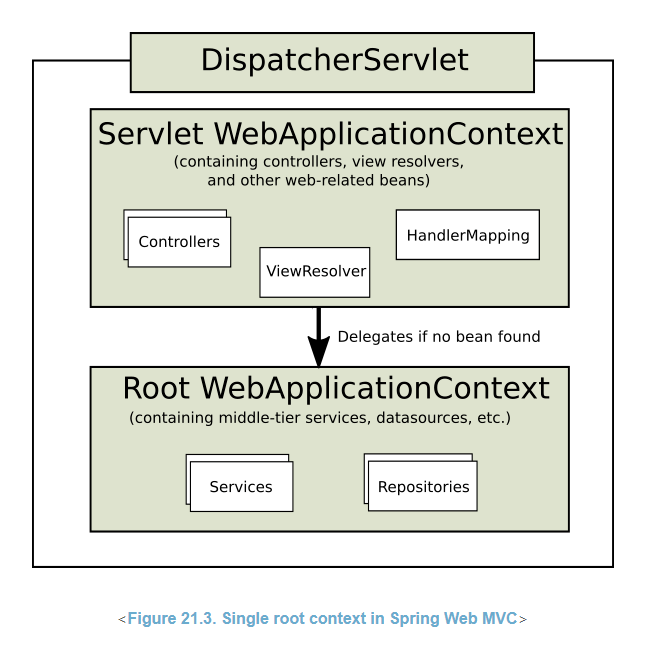
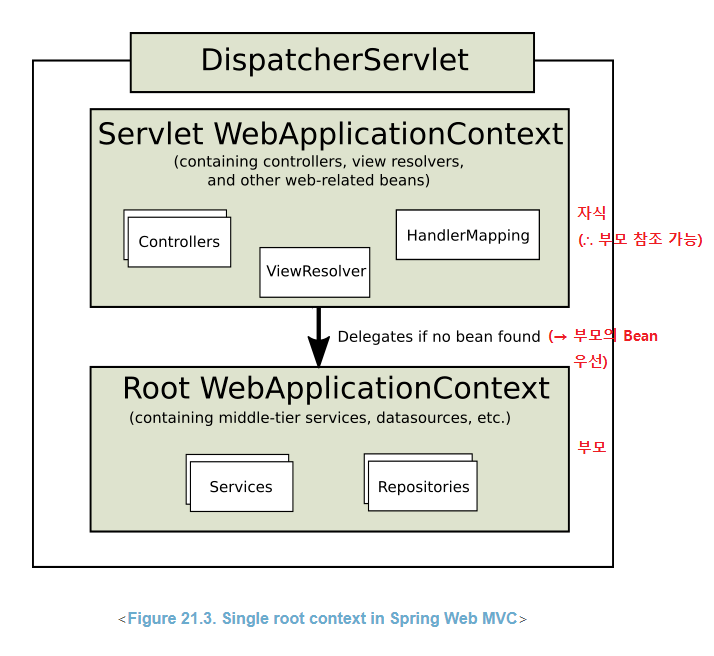
.

diff --git a/book/java_web_by_springboot_sjyoon/ch_3.md b/book/java_web_by_springboot_sjyoon/ch_3.md
@@ -20,7 +20,7 @@
 3. [스프링 MVC](#스프링-MVC)
 	* [스프링 MVC 구조](#스프링-MVC-구조)
 	* [스프링 MVC 설정](#스프링-MVC-설정)
-	* DispatcherServlet 설정
+	* [DispatcherServlet 설정](#DispatcherServlet-설정)
 	* 컨트롤러와 뷰
 	* 인터셉터
 4. [참고](#참고)
@@ -288,22 +288,24 @@ public class JavaConfigSpringApp {
 <img src="./img/ch_3_1.jpg" width="700" height="300"></br>
 
 * DispatcherServlet이 요청을 받으면 그 요청을 처리할 수 있는 Handler의 이름을 HandlerMapping에게 물어봄
-	1. HandlerMapping은 요청 URL을 보고 Handler를 판단
+	1. HandlerMapping은 요청 URL을 보고 Handler(Controller)를 판단
 	2. 또한 Handler 실행 전에 전처리, 후처리로 실행해야 할 인터셉터 목록 결정
 	3. DispatcherServlet은 제어권을 Handler로 전달
 * Handler는 두 가지 역할을 함
 	1. 응답에 필요한 서비스를 호출(invoke)
 	2. 응답에서 렌더링해야 하는 View Name을 판단해서 DispatcherServlet에 전송
-* DispatcherServlet은 논리적인(?) View Name을 ViewResolver에 전달해서 응답에 필요한 View 생성
+* DispatcherServlet은 **논리적인** View Name을 ViewResolver에 전달해서 응답에 필요한 View 생성
+	* Logical view name + prefix/suffix → Physical view object
 * 해당 View에 Model과 컨트롤러를 전달해서(?) 응답 생성 후 클라이언트에 반환
 
 - - -
-[스프링 컨테이너의 동작 원리](https://asfirstalways.tistory.com/334)를 조금 더 자세히 설명하자면 아래와 같다.
+스프링 컨테이너는 Controller의 라이프사이클을 관리한다. 이에 관해를 조금 더 자세히 설명하자면 [아래](https://asfirstalways.tistory.com/334)와 같다.
 
 <img src="./img/ch_2_8.png" width="600" height="250"></br>
 
 * 클라이언트 요청 전
 	1. 웹 어플리케이션 실행 시 WAS(ex. Tomcat)가 `web.xml`을 로드(→ 배포)
+		* `web.xml`의 세 가지 설정: ContextLoaderListener, DispatcherServlet, encodingFilter
 	2. `web.xml`에 등록되어 있는 ContextLoaderListener 생성
 		* ContextLoaderListener 클래스는 ServletContextListener 인터페이스를 구현
 	3. 생성된 ContextLoaderListener는 `root-context.xml`을 로드
@@ -321,11 +323,75 @@ public class JavaConfigSpringApp {
 	3. **두 번째**(?!) Spring Container가 구동되며 요청에 맞는 PageController들이 동작
 		* 이 때 첫 번째 Spring Container가 구동되며 생성된 DAO, VO, ServiceImpl 클래스들과 협력
 
-이를 좀 더 자세히 이해하기 위해 Context 개념을 살펴보자.
+이를 좀 더 자세히 이해하기 위해 Context 개념을 살펴보자. 스프링은 계층 구조를 가지는 multi-context 환경을 구성할 수 있도록 해주며 크게 두 가지로 구분할 수 있다.
 
-<img src="./img/ch_2_9.png" width="350" height="350"></br>
+* ContextLoaderListener(`root-context`)
+	* 설정
+		1. 웹 애플리케이션의 실제 비즈니스 로직을 위한 Service layer 구성 Bean 설정
+		2. 해당 Service layer와 협력하는 Repository layer 구성 Bean 설정
+	* 참조(의존성)
+		1. 이 context에 등록되는 모든 Bean은 모든 context에서 사용 가능
+			* ∴ 웹 애플리케이션 전체에 적용해야 하는 기능 위치(ex. DB 연결, 로깅 등)
+		2. `servlet-context`에 등록된 Bean 이용 불가능
+			* `servlet-context`와 동일한 Bean이 있을 경우 Servlet Context Bean 우선
+	* 코드  
+		```xml
+		<!-- web.xml -->
+		<context-param>
+			<param-name>contextConfigLocation</param-name>
+			<param-value>classpath*:spring/context-*.xml</param-value>
+		</context-param>
+		```
+* DispatcherServlet(`servlet-context`; 웹 애플리케이션이 클라이언트의 요청을 받기 위한 진입점)
+	* 설정
+		1. 요청에 대한 처리를 해줄 Controller의 매핑 설정(HandlerMapping)
+		2. 요청 처리 후 View 처리를 어떻게 할 것인가에 대한 설정(ViewResolver)
+	* 참조
+		1. 이 context에 등록되는 Bean들은 `servlet-context`에서만 사용 가능
+			* 타 서블릿과 공유하기 위한 Bean들은 루트 웹 애플리케이션 컨텍스트에 등록 후 사용
+		2. DispatcherServlet은 자신만의 컨텍스트를 생성, 초기화 및 `root-context`를 찾아서 자신의 부모 컨텍스트로 이용
+	* 코드  
+		```xml
+		<!-- web.xml -->
+		<servlet>
+			<servlet-name>dispatcher</servlet-name>
+			<servlet-class>org.springframework.web.servlet.DispatcherServlet</servlet-class>
+			<init-param>
+				<param-name>listings</param-name>
+				<param-value>false</param-value>
+			</init-param>
+			<load-on-startup>1</load-on-startup>
+		</servlet>
+		
+		<servlet-mapping>
+			<servlet-name>dispatcher</servlet-name>
+			<url-pattern>/</url-pattern>
+		</servlet-mapping>
+		```
+		
+즉 아래와 같은 클래스 위계를 가진다.
+		
+<img src="./img/ch_2_9.png" width="370" height="350"></br>
 
+사용 시 예를 통해 좀 더 구체적으로 설명하면 아래와 같다.
 
+<img src="./img/ch_2_10.png" width="550" height="250"></br>
+
+* 예를 들어, 쇼핑몰의 경우 의류/가구에 대한 요청을 별도로 처리 가능(→ DispatcherServlet)  
+  (각 요청 별로 DispatcherServlet 할당)
+* Controller가 공유하는 Bean들을 포함하는 Spring Container를 생성(→ ContextLoaderListener)  
+  (공유하는 Bean: Service, Dao, DataSource)
+	* 다시 한 번 언급하지만 DispatcherServlet에 의해 생성된 Bean은 ContextLoaderListener에 의해 생성된 Bean 참조 가능
+
+결과적으로 아래와 같은 구조를 갖게 된다.
+
+<img src="./img/ch_2_11.png" width="550" height="250"></br>
+
+- - -
+#### 참고
+1. [spring에서 context란 무엇인가](https://www.moongchi.dev/?p=205)
+2. [spring rootContext와 servletContext](https://nice2049.tistory.com/entry/spring-rootContext-%EA%B7%B8%EB%A6%AC%EA%B3%A0-servletContext-%EB%8C%80%ED%95%B4%EC%84%9C)
+3. [web.xml 설정 이해하기](https://gmlwjd9405.github.io/2018/10/29/web-application-structure.html)
 
 ##### [목차로 이동](#목차)
 
@@ -338,6 +404,11 @@ public class JavaConfigSpringApp {
 ```
 
 떄때로 스프링 코어 대신 스프링 콘텍스트를 추가하는 경우도 있는데, 스프링 콘텍스트가 스프링 코어에 대한 의존성을 가지고 있어서 둘 중 어떤 것을 사용해도 관계는 없다(권장하진 않음). 한편 스프링 콘텍스트 모듈처럼 스프링 웹 모듈도 스프링 코어 모듈에 의존성을 가지고 있다.
+
+##### [목차로 이동](#목차)
+
+### DispatcherServlet 설정
+
 
 ##### [목차로 이동](#목차)
 
